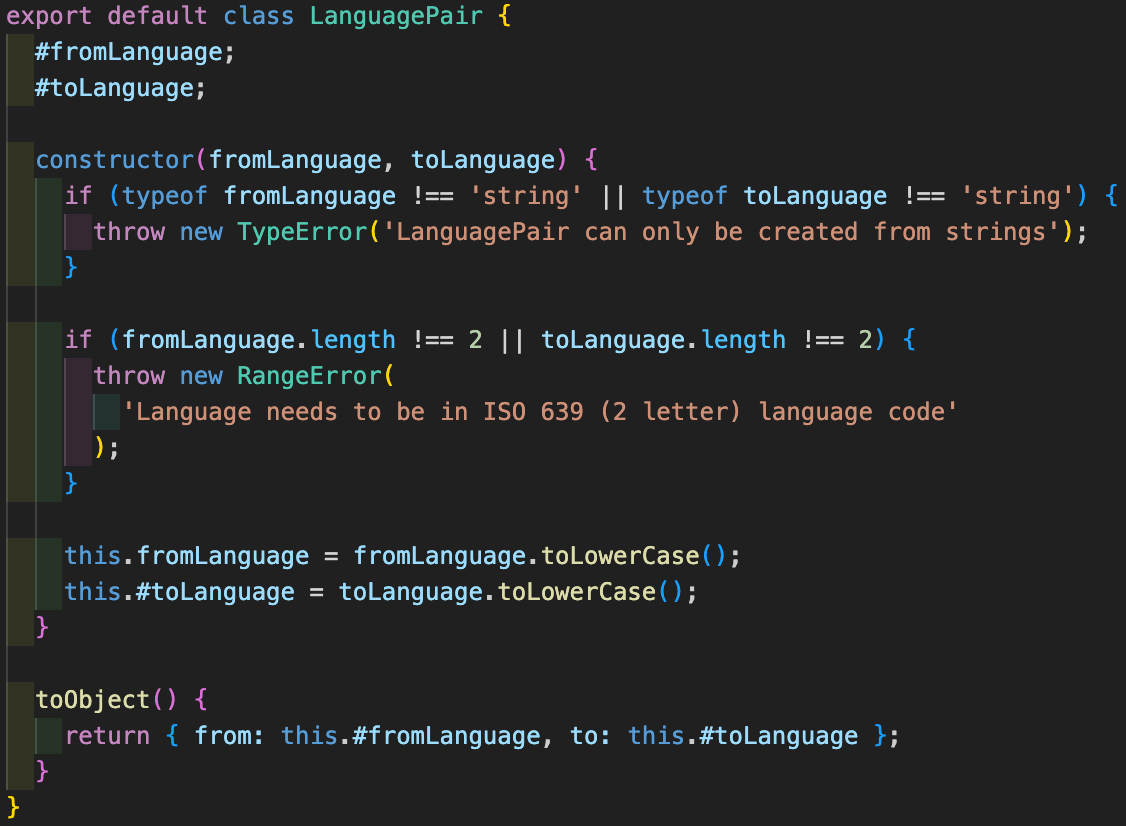
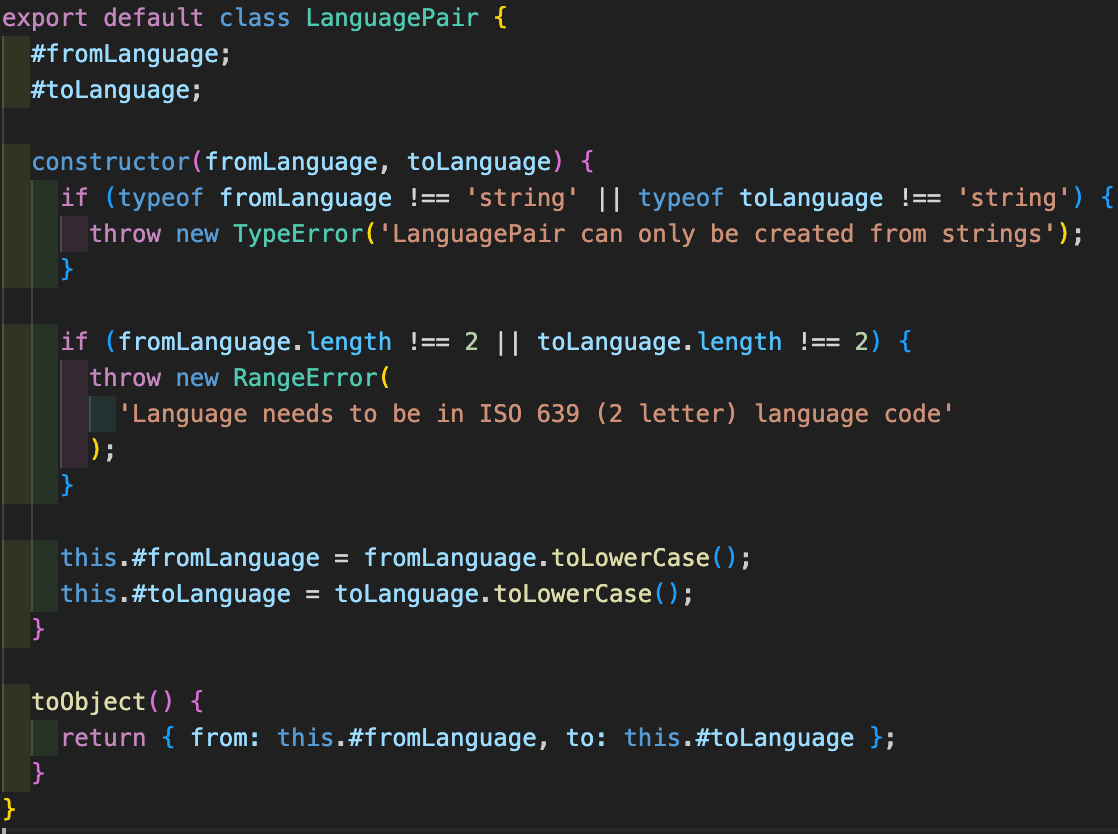
Fix typo in LanguagePair

diff --git a/src/lib/LanguagePair.js b/src/lib/LanguagePair.js
@@ -24,7 +24,7 @@ export default class LanguagePair {
       );
     }
 
-    this.fromLanguage = fromLanguage.toLowerCase();
+    this.#fromLanguage = fromLanguage.toLowerCase();
     this.#toLanguage = toLanguage.toLowerCase();
   }
 
